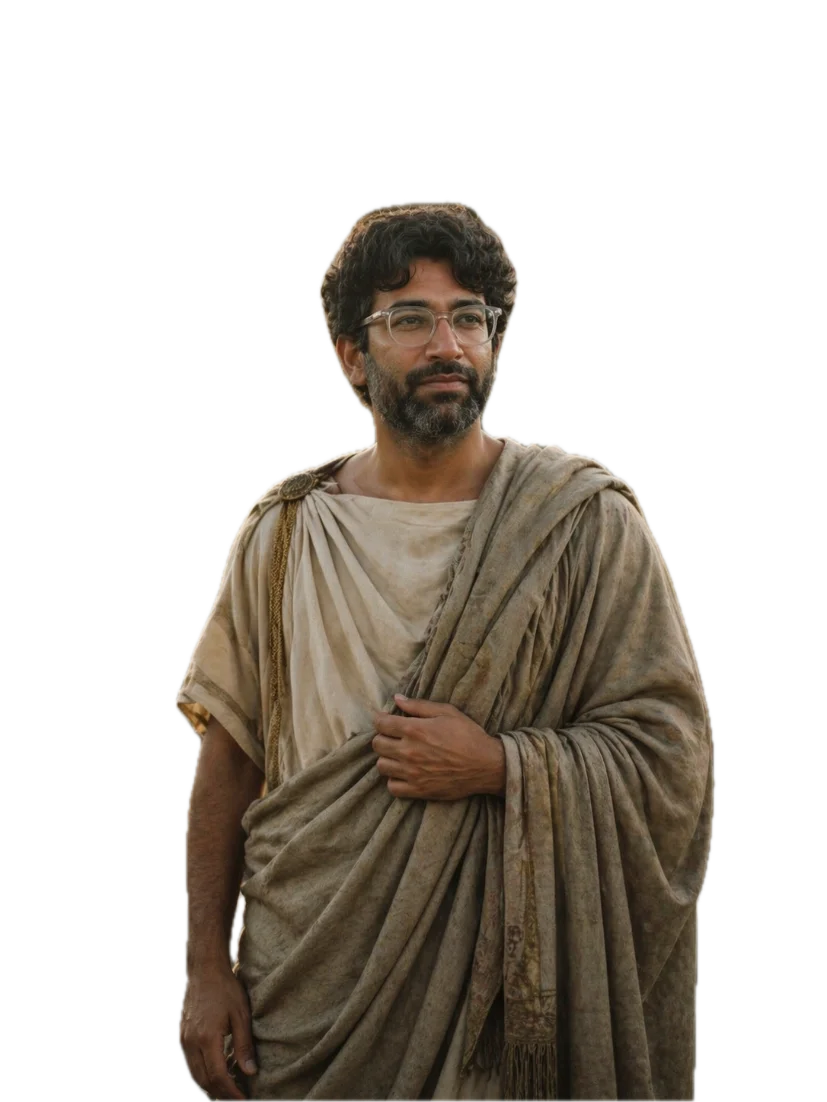
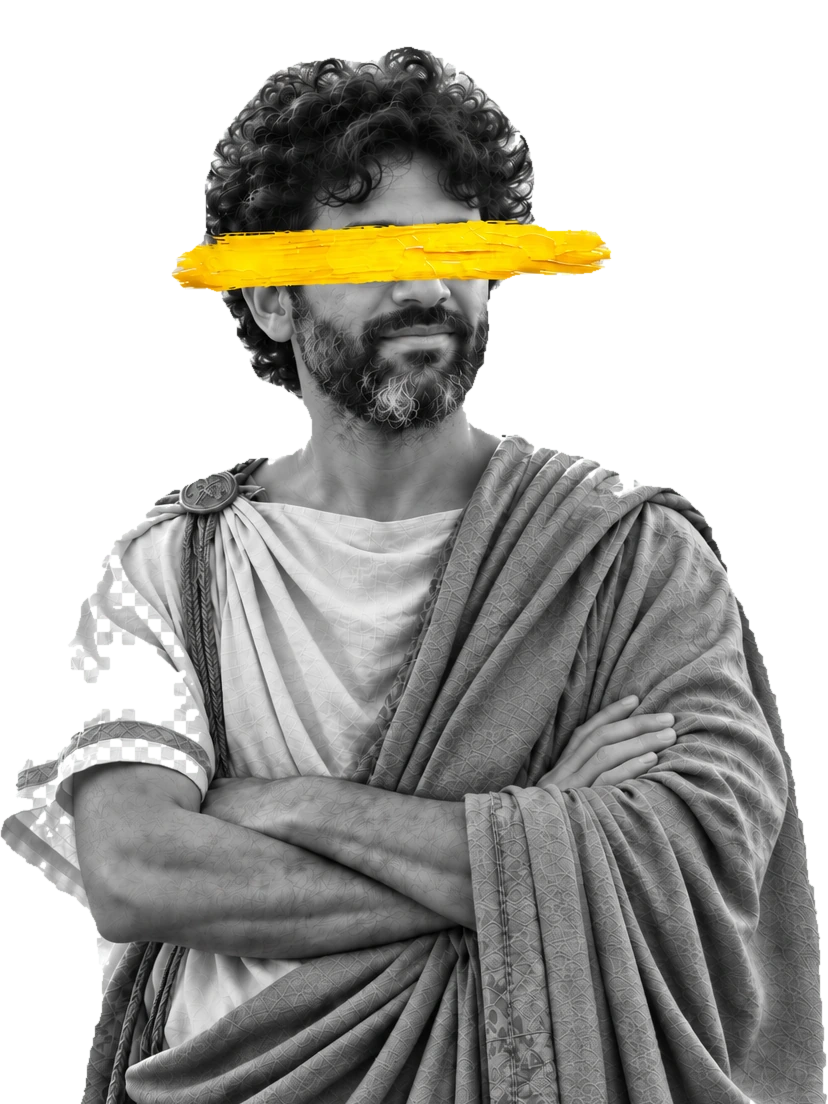
Swap in the new portrait, rebuilt as a 3:4 cutout
The supplied PNG had no alpha: its checkerboard was baked into the pixels.
Transparency was reconstructed from the 12.8px checker pattern, the figure
taken as the component not reachable from the border, then trimmed and padded
to 3:4. The page therefore needs no crop maths: image and mask are the same
file at 100%. No .grayscale, so the yellow bar survives.

diff --git a/src/styles/site.css b/src/styles/site.css
@@ -52,20 +52,17 @@ a:hover{color:var(--ink)}
 .hero-name-track{display:flex;align-items:center;gap:0.16em;white-space:nowrap;width:max-content;will-change:transform}
 .hero-name-seg{display:flex;align-items:center;gap:0.16em}
 .hero-name-dash{display:block;width:0.62em;height:0.105em;background:currentColor}/* 42% of the column at 1440 (605px), never narrower than 280px on a phone. The box is
-   masked by the portrait's own alpha, cut to the same rectangle the <img> below is drawn
-   at: a mask-position percentage aligns that point of the image with the same point of the
-   box, so 62.84% / 46.57% put the image's edges where the crop puts them. Everything in
-   this box — the figure and the white band — therefore shows only across the figure. */
+   masked by the portrait's own alpha, and the file is already a 3:4 cutout cropped as it
+   should sit, so image and mask are the same file at the same size. Everything in this box —
+   the figure and the white band — therefore shows only across the figure, and replacing the
+   portrait means replacing one 3:4 file. */
 /* Above the dark band, not behind it: the figure hides the dark letters where it covers
    them, and the white copy inside this box draws them back in white. */
 .portrait{position:relative;z-index:2;align-self:flex-end;width:clamp(17.5rem, 42%, 37.8rem);aspect-ratio:3/4;overflow:hidden;
   -webkit-mask-image:url('/hero-portrait.webp');mask-image:url('/hero-portrait.webp');
-  -webkit-mask-size:151.35% 151.25%;mask-size:151.35% 151.25%;
-  -webkit-mask-position:62.84% 46.57%;mask-position:62.84% 46.57%;
+  -webkit-mask-size:100% 100%;mask-size:100% 100%;
   -webkit-mask-repeat:no-repeat;mask-repeat:no-repeat}
-/* The crop saved in the wireframe's image slot: 1.5125× over a cover fit, centre moved
-   6.59% left and 1.76% down. */
-.portrait img{position:absolute;max-width:none;width:151.35%;height:151.25%;left:43.41%;top:51.76%;transform:translate(-50%,-50%)}
+.portrait img{position:absolute;inset:0;width:100%;height:100%;object-fit:cover}
 /* The white copy of the band. It lives inside the masked portrait box but is laid out in
    the hero's coordinates — the box is centred in the hero and its foot is the hero's foot,
    so the two bands sit on the same line and scroll together. */
